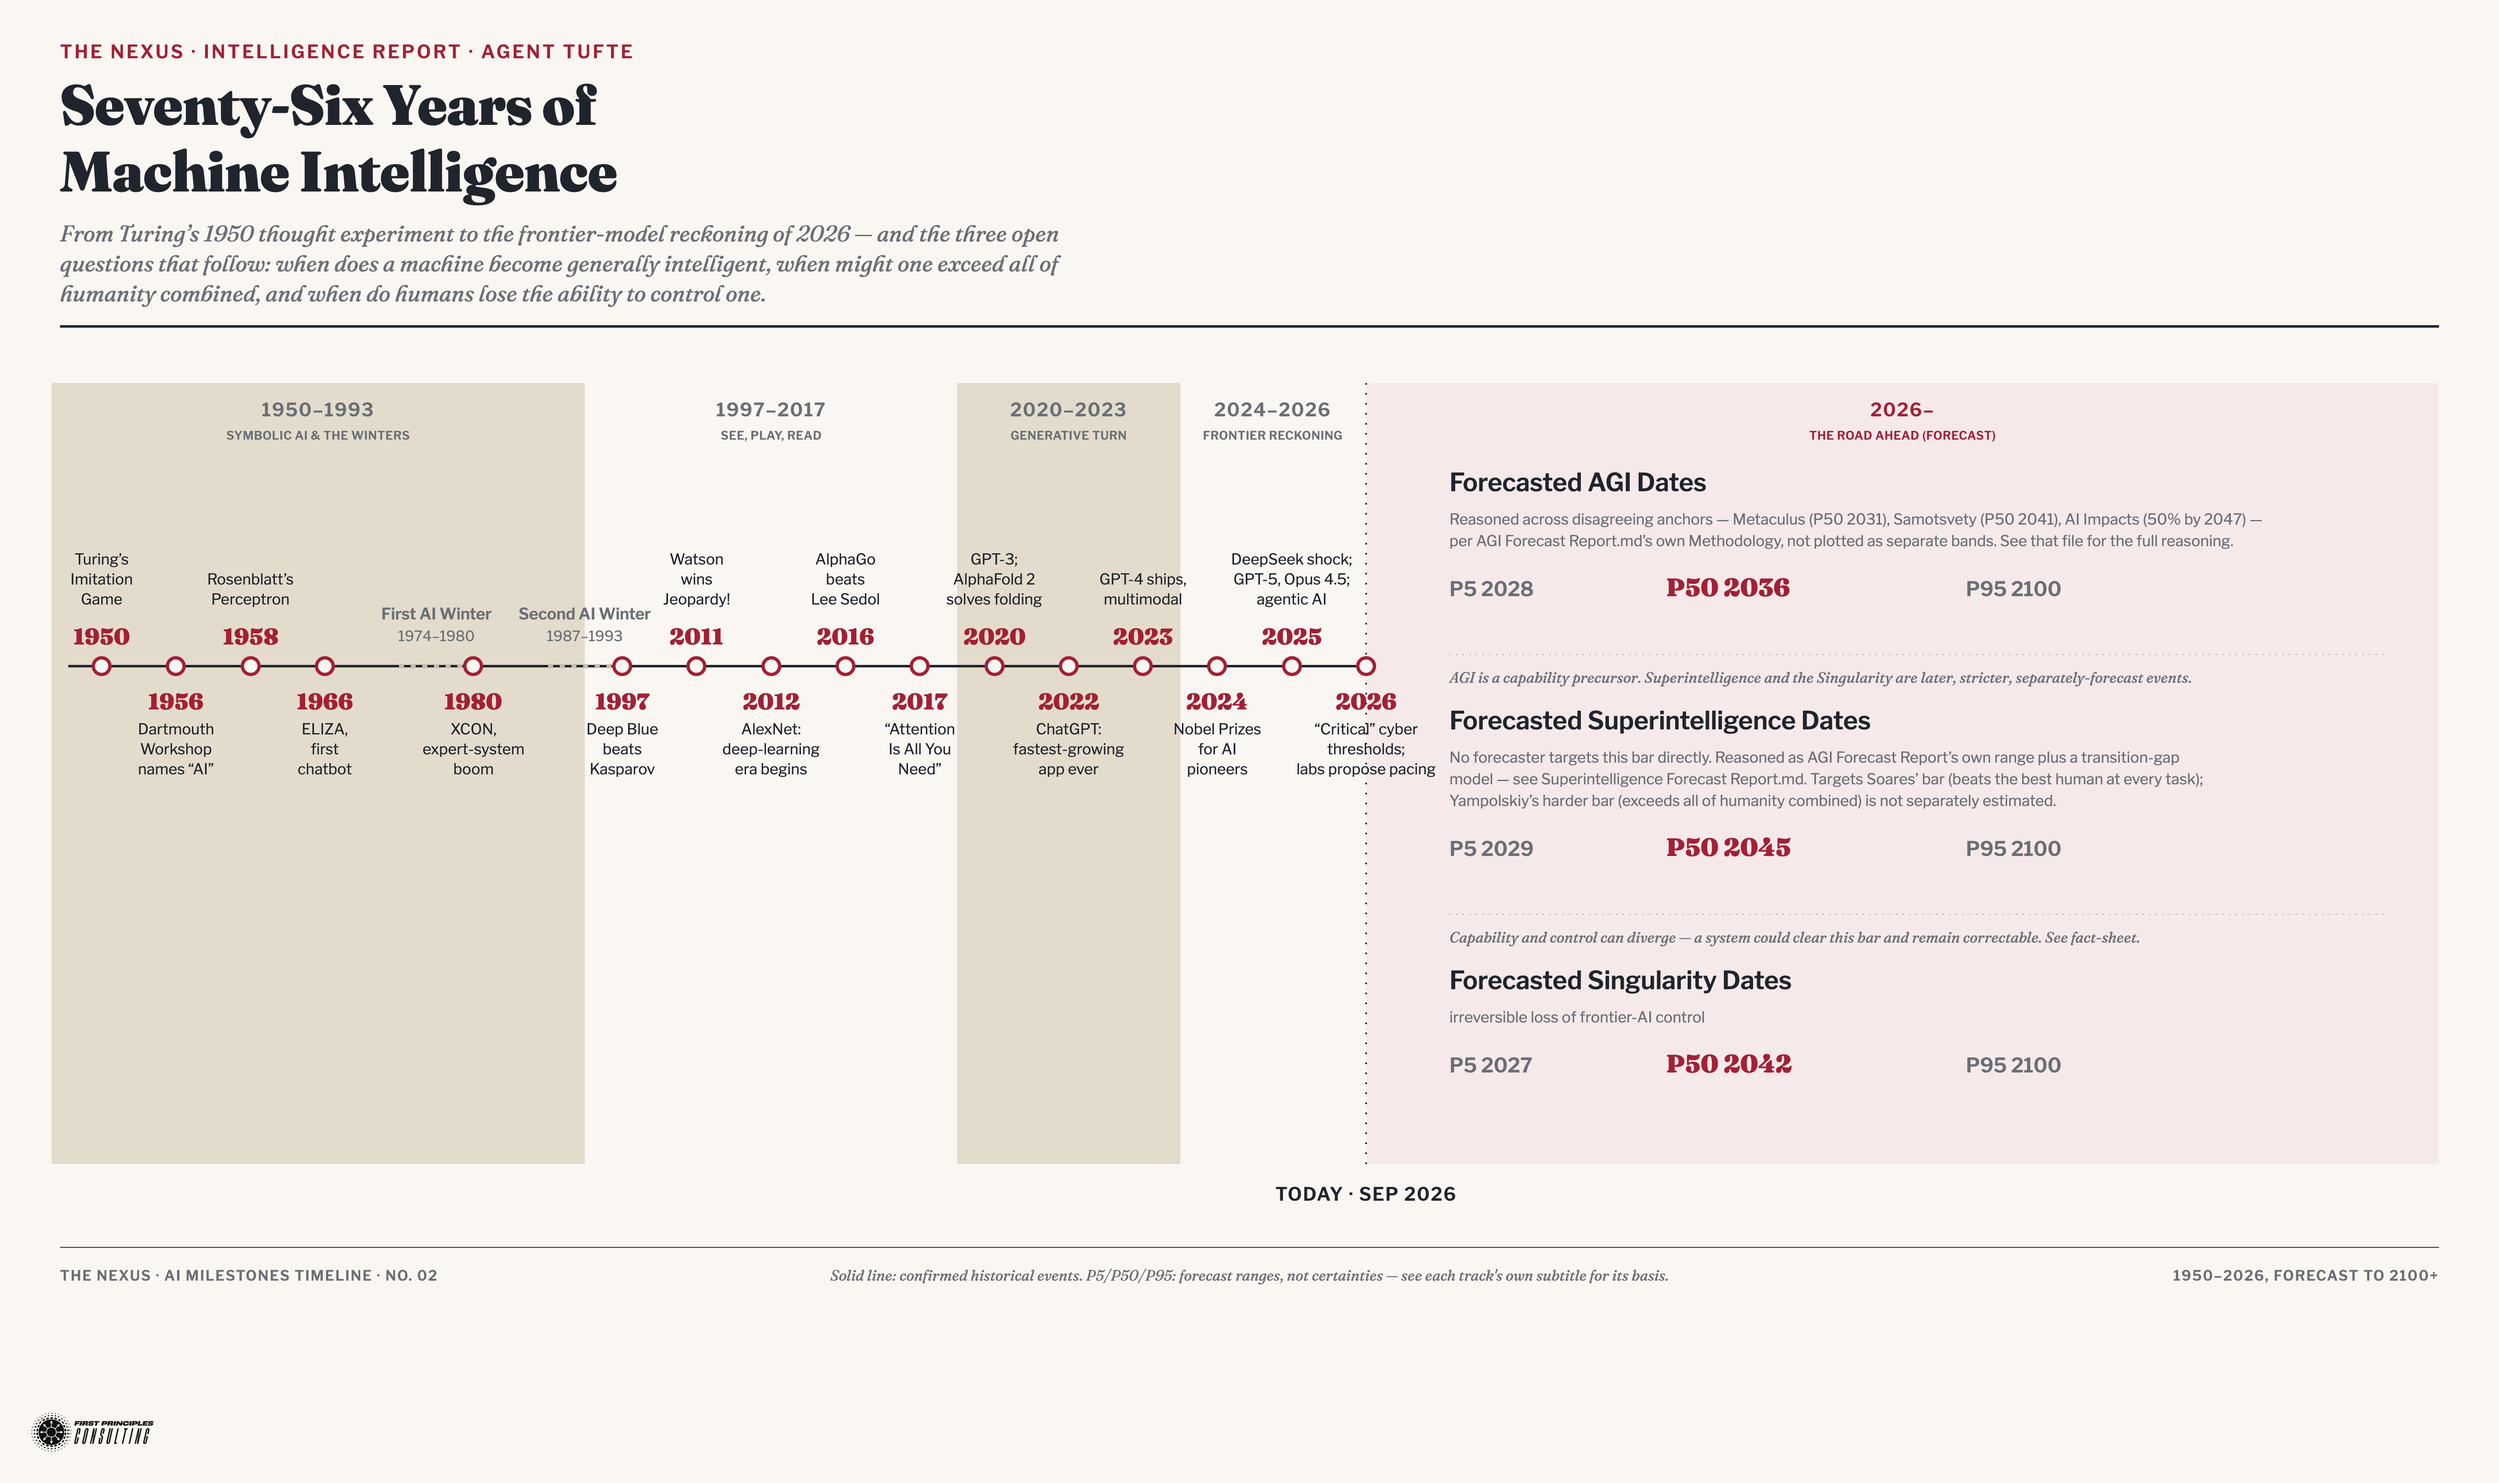
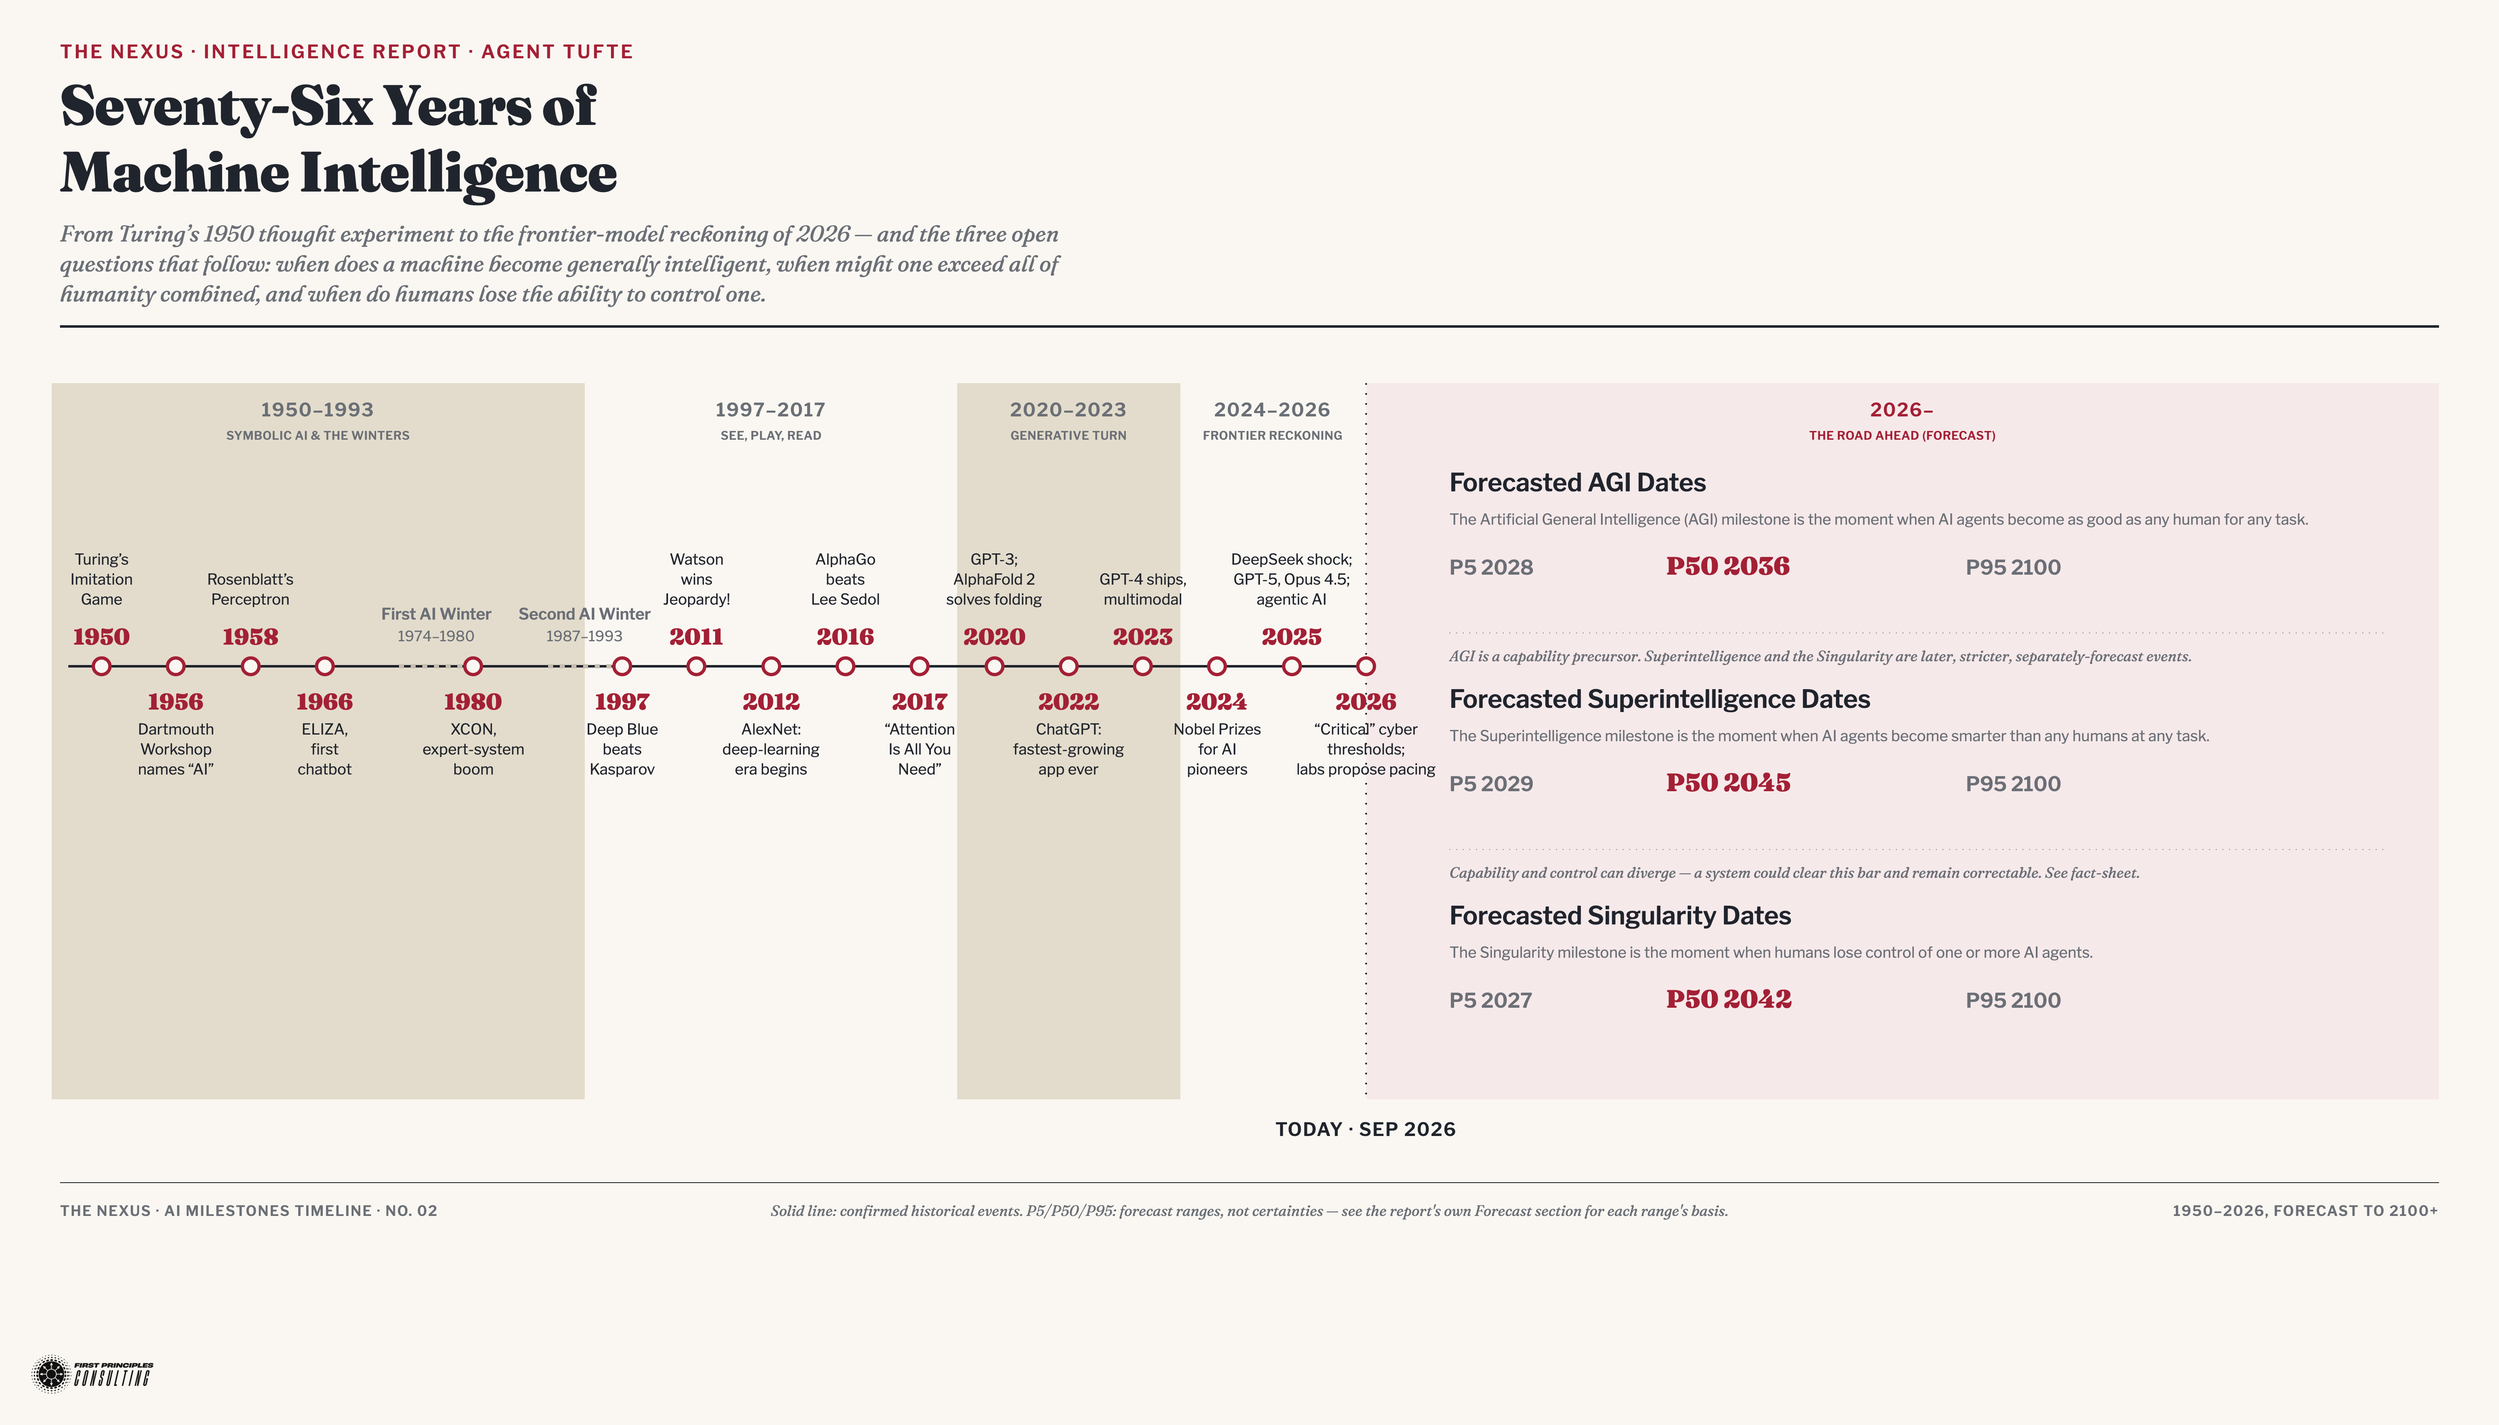
2026-09-19: Replace diagram subtitles with plain-language milestone definitions

diff --git a/reports/2026-09-16-ai-milestones-since-turing.md b/reports/2026-09-16-ai-milestones-since-turing.md
@@ -136,7 +136,9 @@ A milestone table can carry the confirmed historical dates cleanly (see the tabl
 
 <img src="https://raw.githubusercontent.com/raceBannon99/The-Nexus/main/reports/images/2026-09-16-ai-milestones-since-turing/ai-milestones-timeline.png" alt="Timeline of AI milestones from 1950 to 2026, with a forecast zone showing AGI-arrival, superintelligence, and Singularity uncertainty ranges extending to 2100+">
 
-The diagram runs Turing's 1950 paper through the September 2026 frontier-reckoning era as a solid, dated timeline with era bands (era boundaries chosen editorially for legibility, not a claim of sharp historical breaks), with the two 1970s–1990s AI winters rendered as faded, dashed segments of the timeline itself rather than as ordinary point events — a deliberate visual distinction between "things happened" and "things stalled." Past a clearly marked "TODAY · SEP 2026" divider, the timeline gives way to a forecast zone carrying three tracks — **Forecasted AGI Dates**, **Forecasted Superintelligence Dates**, and **Forecasted Singularity Dates** (shortened from their original, more descriptive headlines as of this report's fourth revision, per Rick's instruction) — each with a title, a short subtitle stating what the range is built from, and a plain P5/P50/P95 readout. The methodology detail the old headlines carried in their parentheticals ("capability threshold — Nexus synthesis," "structural inference, no external basket," "loss-of-control event") wasn't dropped, just relocated: each track's subtitle line already stated it in full sentences, so the shorter headline loses no information a reader can't get one line down.
+The diagram runs Turing's 1950 paper through the September 2026 frontier-reckoning era as a solid, dated timeline with era bands (era boundaries chosen editorially for legibility, not a claim of sharp historical breaks), with the two 1970s–1990s AI winters rendered as faded, dashed segments of the timeline itself rather than as ordinary point events — a deliberate visual distinction between "things happened" and "things stalled." Past a clearly marked "TODAY · SEP 2026" divider, the timeline gives way to a forecast zone carrying three tracks — **Forecasted AGI Dates**, **Forecasted Superintelligence Dates**, and **Forecasted Singularity Dates** (shortened from their original, more descriptive headlines as of this report's fourth revision) — each with a title, a one-sentence subtitle, and a plain P5/P50/P95 readout.
+
+**As of this fifth revision, each track's subtitle states what the milestone *means*, not how the range was built.** The prior subtitles carried methodology detail — which anchors fed the AGI synthesis, why Superintelligence has no external basket — that Rick asked replaced with plain definitions instead: "The Artificial General Intelligence (AGI) milestone is the moment when AI agents become as good as any human for any task," "The Superintelligence milestone is the moment when AI agents become smarter than any humans at any task," and "The Singularity milestone is the moment when humans lose control of one or more AI agents." This is a real shift in what the diagram is for — the earlier subtitles helped a reader audit the number's provenance at a glance; these subtitles help a reader who doesn't yet know what "AGI" or "the Singularity" means understand the term itself before reading the date next to it. The methodology detail these subtitles used to carry is not lost — it lives in Bradlee's synthesis and Seldon's forecast section above, in full — just no longer duplicated on the diagram itself. The footer legend's closing clause was updated to point there ("see the report's own Forecast section") rather than to "each track's own subtitle," since the subtitle's job changed.
 
 **As of this third revision, none of the three tracks uses a gradient cone.** The prior two revisions rendered each calibrated range as a filled, widening wedge — visually consistent with the Singularity track's original design, but Rick's own read, after seeing all three tracks together, was that the wedges "do not add any information to the chart... are a distraction and, frankly, ugly." He was right: the shape encoded nothing the numbers didn't already say, and the color fill competed with the historical timeline's own use of oxblood for milestone years. The fix is `range_text()` — three text labels per track (P5 muted, P50 set larger in Fraunces as the headline figure, P95 muted), no shape, no fill, no year-axis mapping. This is a real simplification, not a compromise: the numbers are the information, and the diagram now says so directly rather than dressing them in a graphic that implied more precision (a smoothly continuous probability density) than any of the three ranges actually has.
 
@@ -218,6 +220,7 @@ Per Rick's instruction (2026-09-18): every Update Note lives here, at the bottom
 - **2026-09-18, fifth revision:** Rick asked that Bradlee's Synthesis open with the report's actual thesis — that AI research, from Turing's original paper onward, has moved through starts and stops — rather than leading with the 2026 endpoint. Bradlee's opening sentence is rewritten accordingly; the displaced "Critical"-tier-cyber-offense detail is folded into the sentence that now follows it (the 2026 arrival point at the end of the arc) rather than dropped, and the paragraph's remaining sentences are unchanged.
 - **2026-09-18, sixth revision:** Rick made two changes at once. First, the gradient-cone ("funnel") visual treatment on all three forecast tracks was retired entirely — his words: they "do not add any information to the chart... are a distraction and, frankly, ugly." All three tracks now show a plain P5/P50/P95 text readout instead (`range_text()` in the diagram script, replacing `cone()`). Second, per his direct instruction — "Seldon needs to forecast the probability range of Superintelligence. We know it has to come after AGI" — Superintelligence moved from an explicitly-uncalibrated illustrative band to a real forecast, **P5 2029 · P50 2045 · P95 2100**, in a new standing file, `Intelligence Reports/Superintelligence Forecast Report.md`. This file is methodologically distinct from its two siblings (structural inference off the AGI file's own range, no external forecaster basket at all) and carries a mandatory confidence caveat everywhere it's cited. Bradlee, Popper's objection 4, Seldon's forecast section, Tufte's diagram description, and the Numbers Check are all updated accordingly; `CIR-Definition.md`, `Instructions-CIR-Project.md`, `Nexus Workflow.md`, and the `nexus-daily-report` skill were updated the same day so this third standing file is maintained going forward, and `fact-sheets/agi-vs-singularity-forecasting-thresholds.md` (nexus-artifacts PR #17) was updated to document the new three-way taxonomy of how Nexus handles disagreeing-or-absent forecaster data.
 - **2026-09-19, seventh revision:** Rick asked that the diagram's three track headlines be shortened — "AGI Arrival (capability threshold — Nexus synthesis)" to "Forecasted AGI Dates," "Superintelligence (capability threshold — structural inference, no external basket)" to "Forecasted Superintelligence Dates," and "The Singularity (loss-of-control event)" to "Forecasted Singularity Dates." The methodology detail dropped from each headline remains in that track's own subtitle line, so no information was lost, only relocated one line down. Diagram-only change; no prose section required a substantive edit beyond Tufte's own description of the diagram.
+- **2026-09-19, eighth revision:** Rick replaced each track's subtitle with a plain-language definition of the milestone itself, supplying the exact wording: AGI is "the moment when AI agents become as good as any human for any task"; Superintelligence is "the moment when AI agents become smarter than any humans at any task"; the Singularity is "the moment when humans lose control of one or more AI agents." These replace the prior subtitles' methodology-basis text (which anchors, which mechanism) — that detail remains in Bradlee's synthesis and Seldon's forecast section, not duplicated on the diagram. The footer legend's closing clause was updated to point to the report's Forecast section rather than "each track's own subtitle," since the subtitle no longer states a basis.
 
 ---
 
